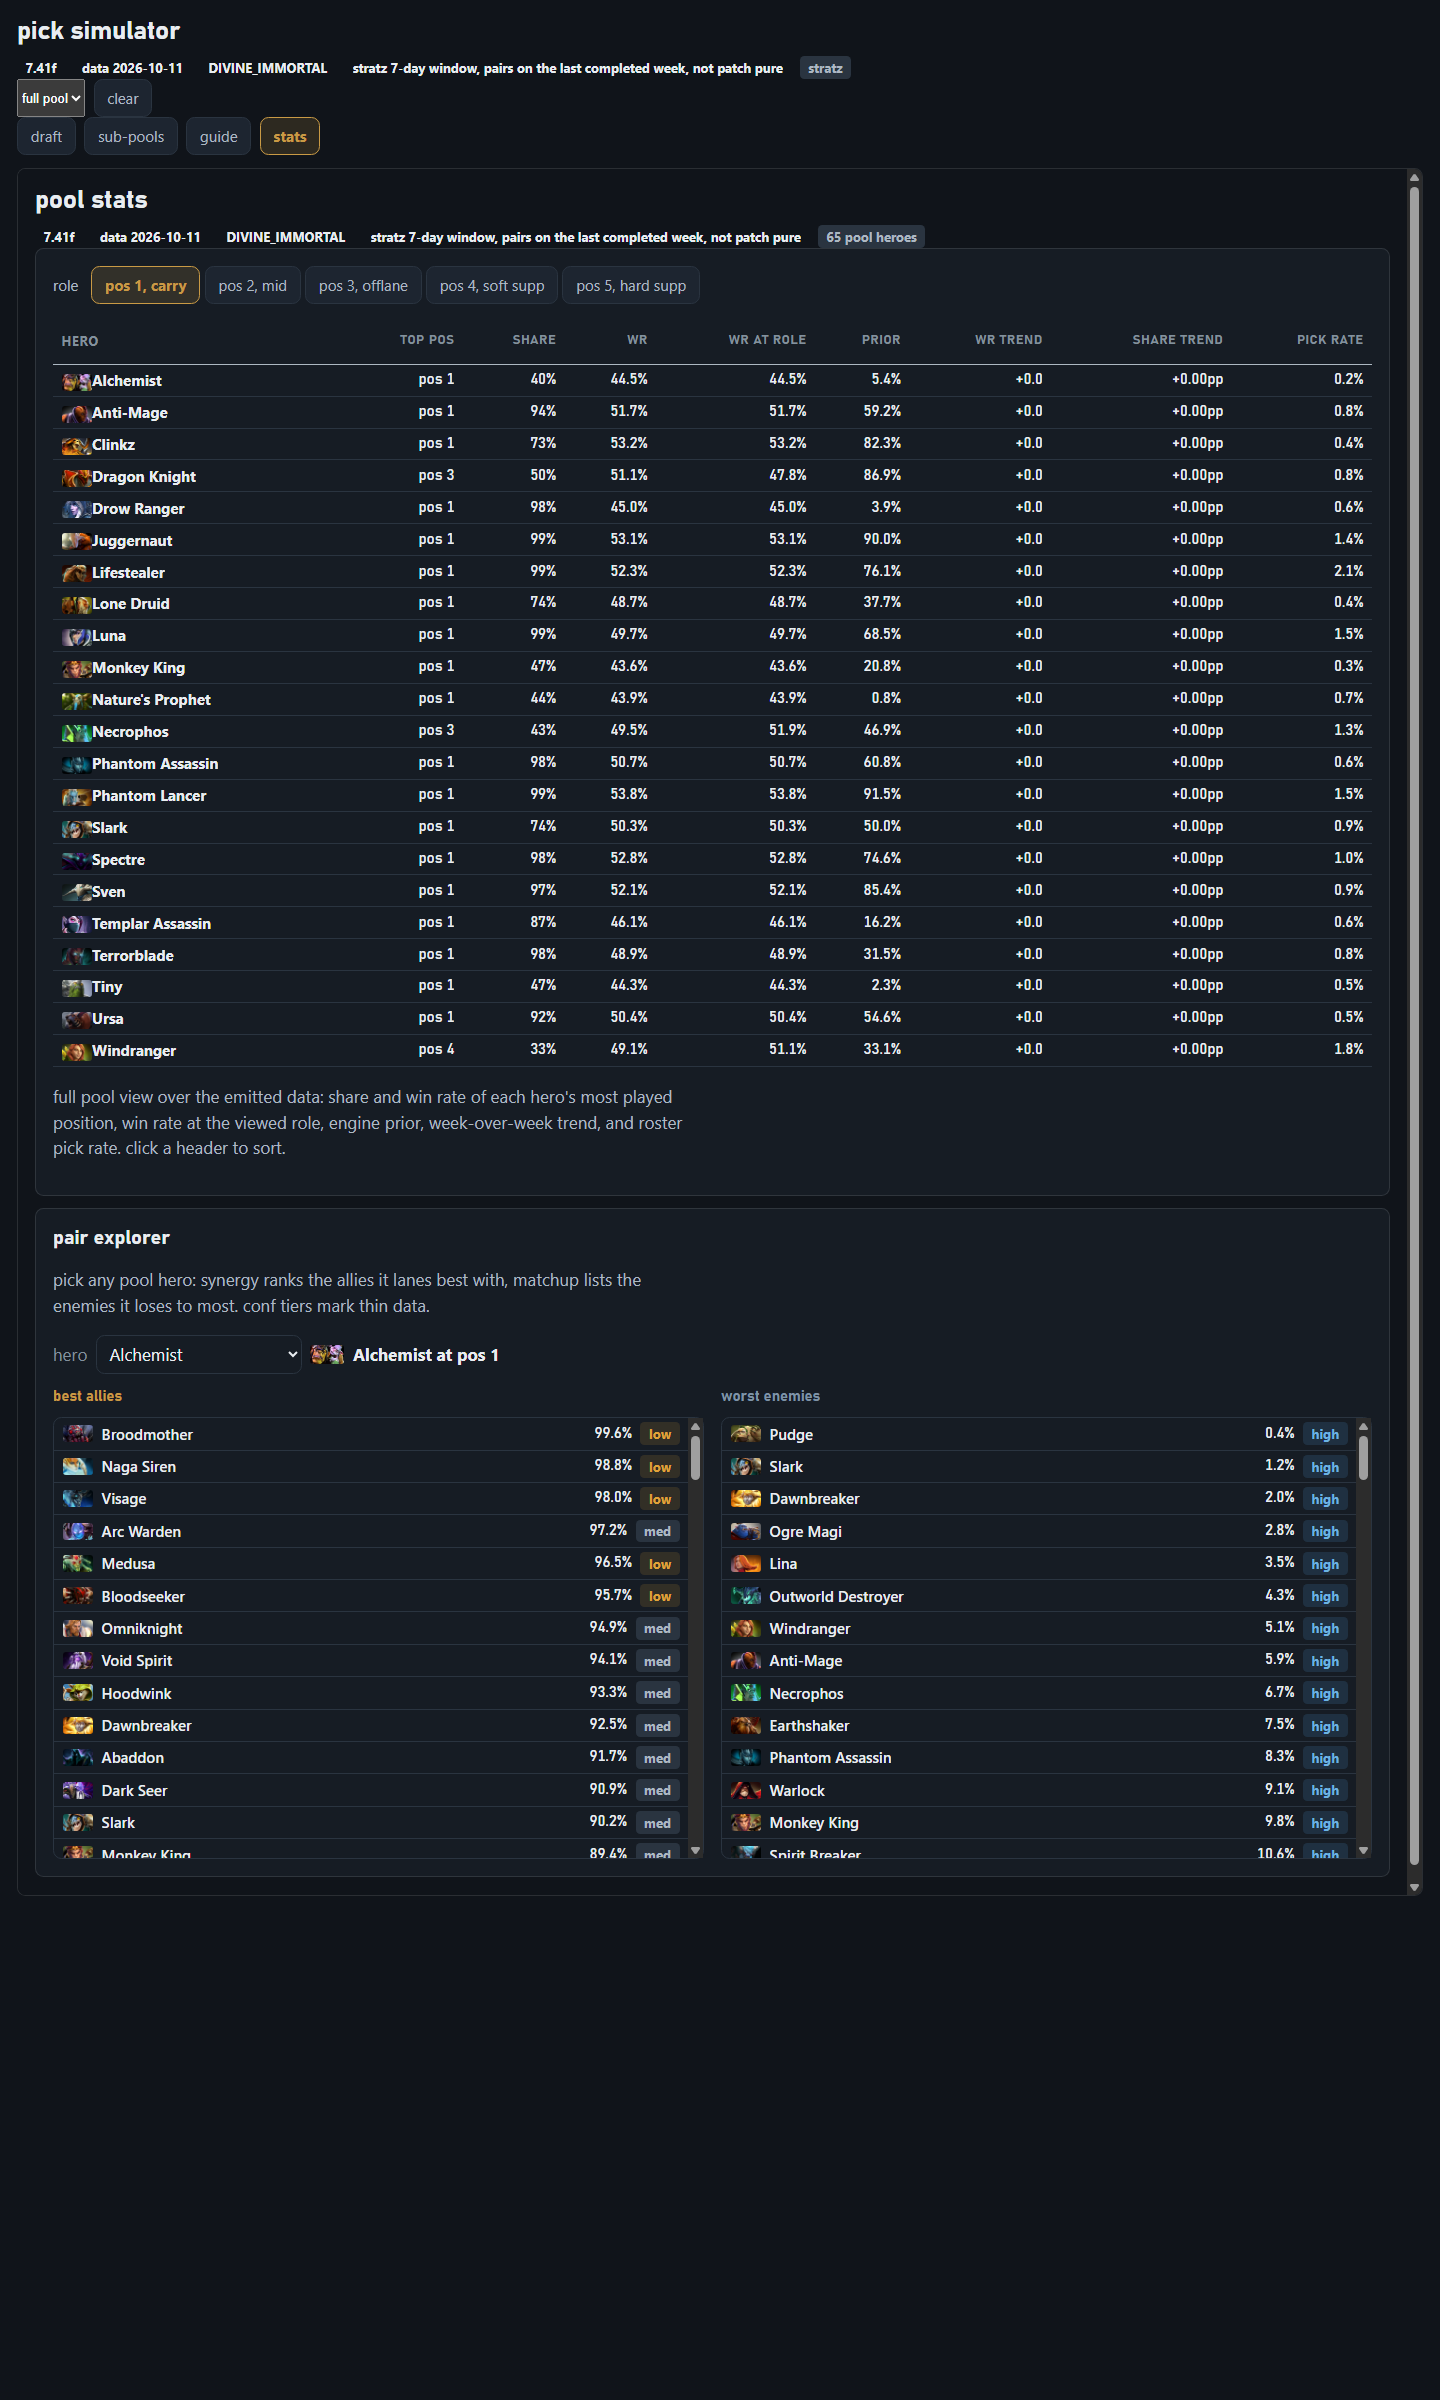
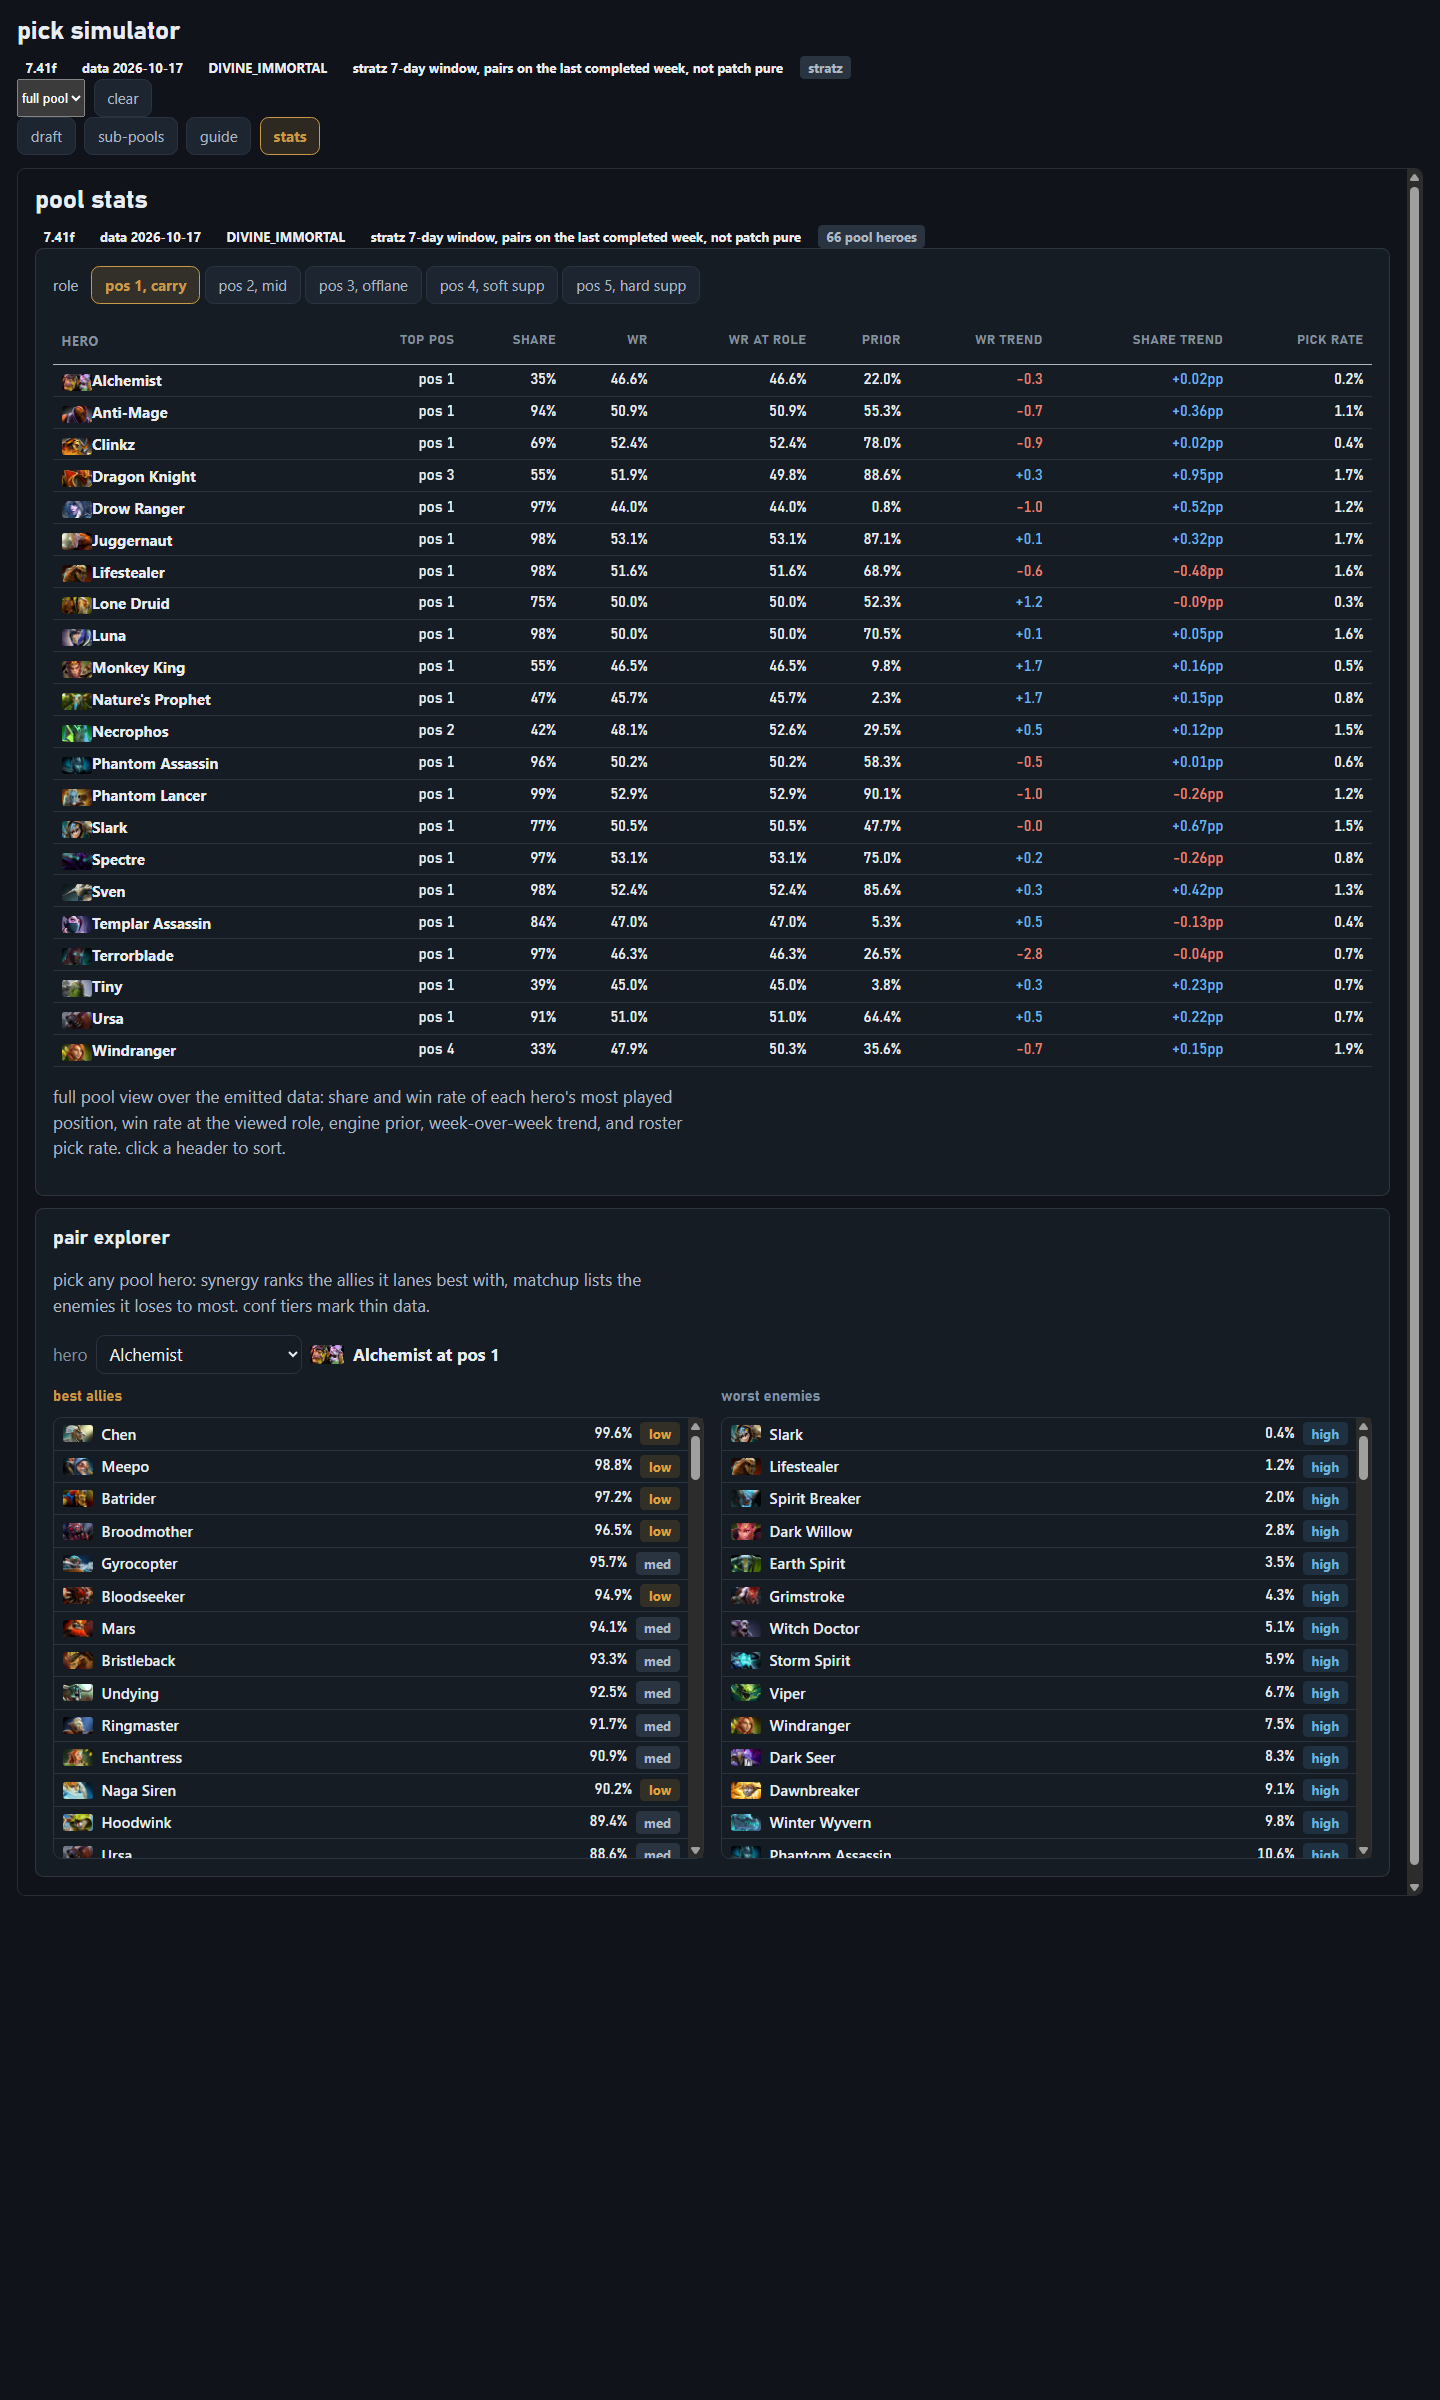
docs(readme): retake the shots for the spirit breaker seat and 26 pair main
the pool lists follow the fresh order-pool sort of the new week
window, every role reshuffled with spirit breaker third at soft
support and fourth at hard support, the flex paragraph names the join,
and all four shots retake against the widened pool.

diff --git a/readme.md b/readme.md
@@ -19,7 +19,7 @@ place allies, enemies, and bans through the roster search or the pool panels, ai
 
 the sub-pools tab carves sub-pools out of the master pool through the loopback `/api/subsets`, and the subset bar in the header picks the active one, so the board panels and ranking filter live to the kept pairs (`make subsets` opens the tab). `main` is the first sub-pool, `make seed-main` reseeds it idempotently into the committed store.
 
-![the sub-pools tab with main selected on the header subset bar and its 24 pairs toggled on among the per-role pool chips](docs/subpools.png)
+![the sub-pools tab with main selected on the header subset bar and its 26 pairs toggled on among the per-role pool chips](docs/subpools.png)
 
 ### guide
 
@@ -37,15 +37,15 @@ the stats tab and its standalone page `picker/stats.html` (`make stats`) read th
 
 the lineup below is the curated pool, membership is authored in `config.json`, a data refresh only re-sorts it: `order-pool` re-sorts every role for display from the latest mined per-position win rates. in the picker these lists are display only: every core hero competes for all three core seats and every support for both support seats, the score decides.
 
-- pos 1, carry: Phantom Lancer, Clinkz, Juggernaut, Spectre, Lifestealer, Sven, Necrophos (flex), Anti-Mage, Windranger, Phantom Assassin, Ursa, Slark (flex), Luna, Terrorblade, Lone Druid, Dragon Knight (flex), Templar Assassin, Drow Ranger, Alchemist, Tiny, Nature's Prophet, Monkey King
-- pos 2, mid: Marci, Dragon Knight, Outworld Destroyer, Slark, Leshrac, Ember Spirit, Snapfire, Lina, Pangolier, Sniper, Necrophos (flex), Storm Spirit
-- pos 3, offlane: Enigma, Slark (flex), Brewmaster, Pudge, Dawnbreaker, Lycan, Dark Seer, Dragon Knight (flex), Tidehunter, Viper, Axe, Centaur Warrunner, Necrophos, Death Prophet, Slardar, Doom, Largo, Timbersaw, Pangolier (flex)
-- pos 4, soft support: Bounty Hunter, Nyx Assassin, Earthshaker, Shadow Shaman, Mirana, Techies (flex), Undying, Rubick, Windranger (flex), Tusk, Ogre Magi, Hoodwink
-- pos 5, hard support: Lich, Winter Wyvern, Bane, Mirana (flex), Witch Doctor, Techies, Ancient Apparition, Clockwerk, Ogre Magi, Venomancer, Hoodwink (flex), Windranger (flex), Enchantress
+- pos 1, carry: Juggernaut, Spectre, Phantom Lancer, Necrophos (flex), Clinkz, Sven, Lifestealer, Ursa, Anti-Mage, Slark (flex), Windranger, Phantom Assassin, Lone Druid, Luna, Dragon Knight (flex), Templar Assassin, Alchemist, Monkey King, Terrorblade, Nature's Prophet, Tiny, Drow Ranger
+- pos 2, mid: Marci, Outworld Destroyer, Dragon Knight, Leshrac, Snapfire, Slark, Ember Spirit, Necrophos (flex), Sniper, Pangolier, Lina, Storm Spirit
+- pos 3, offlane: Enigma, Pudge, Slark (flex), Dawnbreaker, Brewmaster, Dragon Knight (flex), Lycan, Dark Seer, Doom, Necrophos, Viper, Axe, Death Prophet, Largo, Centaur Warrunner, Tidehunter, Slardar, Timbersaw, Pangolier (flex)
+- pos 4, soft support: Bounty Hunter, Nyx Assassin, Spirit Breaker, Earthshaker, Techies (flex), Mirana, Shadow Shaman, Rubick, Undying, Ogre Magi, Tusk, Windranger (flex), Hoodwink
+- pos 5, hard support: Lich, Winter Wyvern, Techies, Spirit Breaker (flex), Mirana (flex), Witch Doctor, Bane, Ancient Apparition, Clockwerk, Venomancer, Ogre Magi, Hoodwink (flex), Enchantress, Windranger (flex)
 
-heroes marked flex hold a secondary seat beside the dedicated seat in another role's list. axe joined as a new hero, dedicated at the offlane seat, dragon knight flexes carry and offlane beside the mid seat, pangolier flexes offlane beside the mid seat, and techies flexes the soft support seat beside the hard support seat.
+heroes marked flex hold a secondary seat beside the dedicated seat in another role's list. axe joined as a new hero, dedicated at the offlane seat, dragon knight flexes carry and offlane beside the mid seat, pangolier flexes offlane beside the mid seat, and techies flexes the soft support seat beside the hard support seat. spirit breaker joined as a new hero, dedicated at the soft support seat with a flex hard support seat.
 
-sub-pools carve the pool down for focused practice. `main` is the first one, 24 pairs: pos 1 nature's prophet, slark, lone druid, lifestealer, dragon knight, anti-mage, phantom lancer. pos 2 dragon knight, slark, pangolier, necrophos. pos 3 necrophos, dragon knight, axe, pangolier, doom. pos 4 and pos 5 mirana, hoodwink, techies, windranger. `make seed-main` reseeds it idempotently into the committed `var/subsets.db`, byte-identical when the store already matches.
+sub-pools carve the pool down for focused practice. `main` is the first one, 26 pairs: pos 1 nature's prophet, slark, lone druid, lifestealer, dragon knight, anti-mage, phantom lancer. pos 2 dragon knight, slark, pangolier, necrophos. pos 3 necrophos, dragon knight, axe, pangolier, doom. pos 4 and pos 5 mirana, hoodwink, techies, windranger, spirit breaker. `make seed-main` reseeds it idempotently into the committed `var/subsets.db`, byte-identical when the store already matches.
 
 ## tools
 
